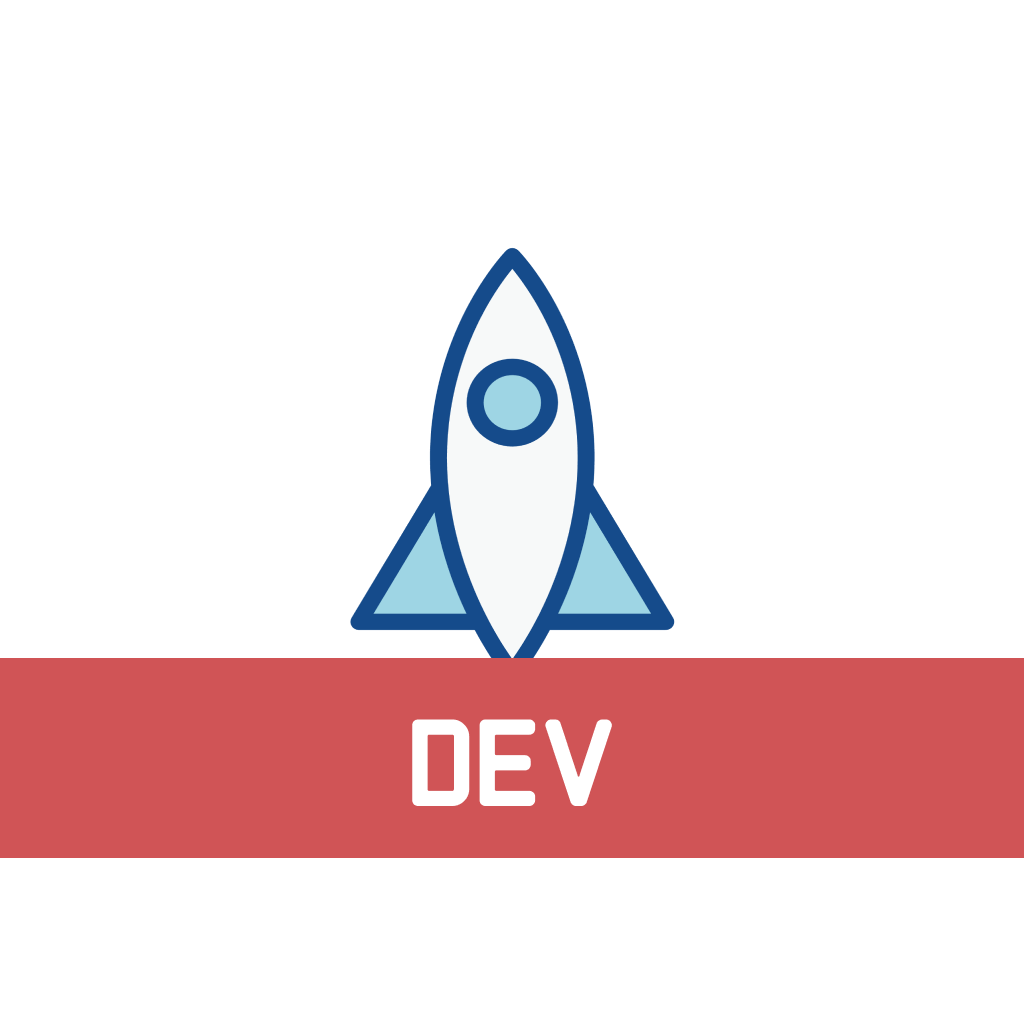
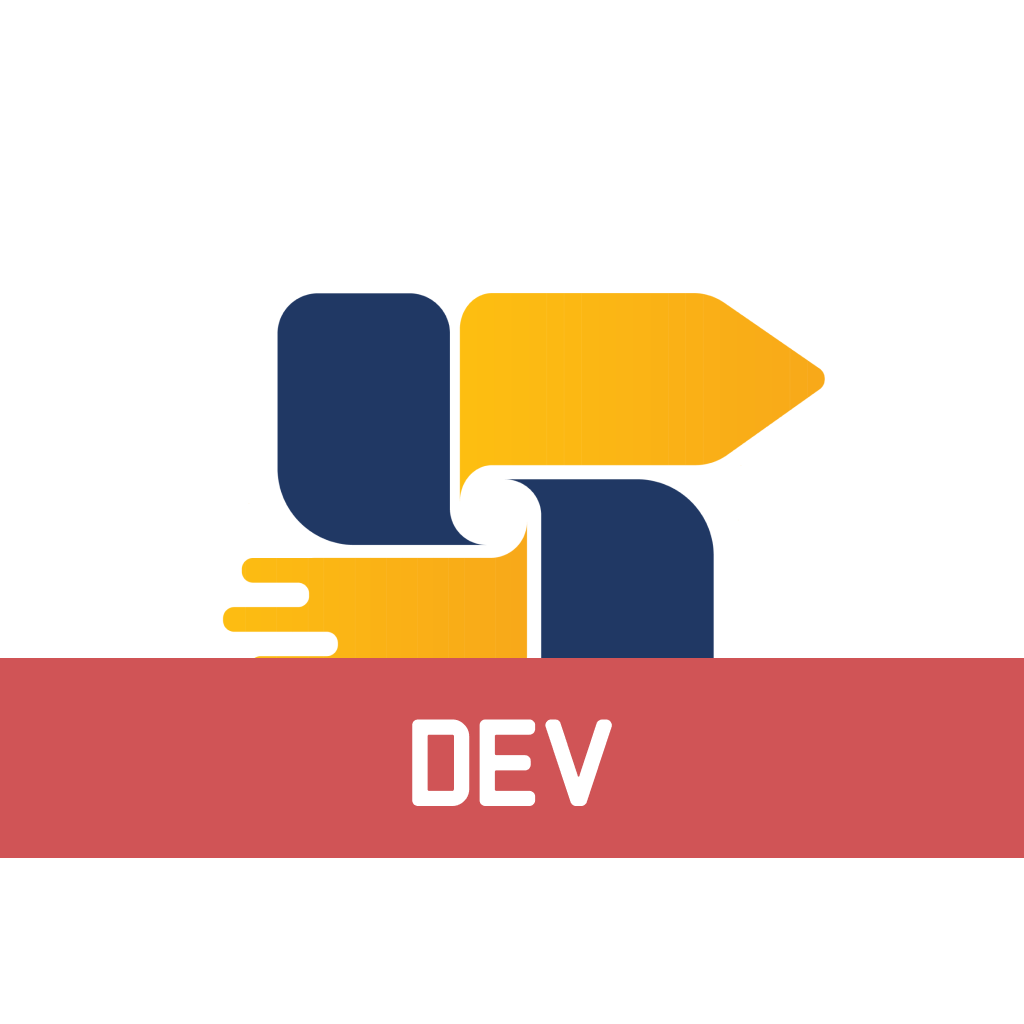
feat(config): update app configuration and assets for Bebaskirim branding
- Changed app name, slug, and owner to 'Bebaskirim' in app.config.ts.
- Updated bundle identifier and associated domains for iOS and Android.
- Modified permissions to an empty array for Android.
- Replaced icon assets and adjusted background colors for improved UI consistency.
- Refactored login screen to use a new logo image and updated layout styling.
- Updated package.json and bun.lock to reflect new app name 'bebaskirim-app'.
- Fixed localization string formatting in en.json for better readability.

Changed region(s): [[0.2188, 0.25, 0.8125, 0.6562]]

diff --git a/app.config.ts b/app.config.ts
@@ -4,15 +4,17 @@ export default ({ config: defaultConfig }: ConfigContext): ExpoConfig => {
   const VARIANT = process.env.APP_VARIANT;
   const VERSION = '0.1.0';
   const BUILD_NUMBER = 1;
+  const BUNDLE_ID = 'com.bebaschat.app';
+
   const config: ExpoConfig = {
     ...defaultConfig,
-    name: 'App',
-    slug: 'app-mobile',
-    owner: 'app-mobile',
+    name: 'Bebaschat',
+    slug: 'bebaschat',
+    owner: 'bebaschat',
     version: VERSION,
     orientation: 'portrait',
     icon: './src/assets/images/icon.png',
-    scheme: 'app',
+    scheme: 'bebaschat',
     userInterfaceStyle: 'automatic',
     newArchEnabled: true,
     experiments: {
@@ -27,11 +29,11 @@ export default ({ config: defaultConfig }: ConfigContext): ExpoConfig => {
     runtimeVersion: { policy: 'appVersion' },
     ios: {
       ...defaultConfig.ios,
-      bundleIdentifier: 'com.lobataros.app',
+      bundleIdentifier: BUNDLE_ID,
       supportsTablet: true,
       buildNumber: BUILD_NUMBER.toString(),
       // Add associatedDomains for Universal Links
-      associatedDomains: ['applinks:app.lobataros.com'],
+      associatedDomains: ['applinks:dashboard.bebaschat.com'],
       icon: './src/assets/images/icon-ios.icon',
       infoPlist: {
         ITSAppUsesNonExemptEncryption: false,
@@ -41,7 +43,7 @@ export default ({ config: defaultConfig }: ConfigContext): ExpoConfig => {
     },
     android: {
       ...defaultConfig.android,
-      package: 'com.lobataros.app',
+      package: BUNDLE_ID,
       versionCode: BUILD_NUMBER,
       edgeToEdgeEnabled: true,
       adaptiveIcon: {
@@ -49,12 +51,7 @@ export default ({ config: defaultConfig }: ConfigContext): ExpoConfig => {
         monochromeImage: './src/assets/images/icon-android-monochrome.png',
         backgroundColor: '#ffffff',
       },
-      permissions: [
-        'android.permission.CAMERA',
-        'android.permission.RECORD_AUDIO',
-        'android.permission.ACCESS_COARSE_LOCATION',
-        'android.permission.ACCESS_FINE_LOCATION',
-      ],
+      permissions: [],
       // Add intentFilters for App Links
       intentFilters: [
         {
@@ -63,7 +60,7 @@ export default ({ config: defaultConfig }: ConfigContext): ExpoConfig => {
           data: [
             {
               scheme: 'https',
-              host: 'dashboard.bebaskirim.com',
+              host: 'dashboard.bebaschat.com',
               pathPrefix: '/auth/reset-password',
             },
           ],
@@ -91,10 +88,10 @@ export default ({ config: defaultConfig }: ConfigContext): ExpoConfig => {
           image: './src/assets/images/icon.png',
           imageWidth: 200,
           resizeMode: 'contain',
-          backgroundColor: '#FAF9F5',
+          backgroundColor: '#F2F2F2',
           dark: {
             image: './src/assets/images/icon.png',
-            backgroundColor: '#262624',
+            backgroundColor: '#121212',
           },
         },
       ],
@@ -127,16 +124,17 @@ export default ({ config: defaultConfig }: ConfigContext): ExpoConfig => {
   };
 
   if (VARIANT === 'dev') {
-    config.name = 'App Dev';
-    config.ios!.bundleIdentifier = 'com.lobataros.app.dev';
+    config.name = 'Bebaschat Dev';
+    config.ios!.bundleIdentifier = `${BUNDLE_ID}.dev`;
+    config.android!.package = `${BUNDLE_ID}.dev`;
+
     config.ios!.icon = './src/assets/images/icon-ios-dev.icon';
-    config.android!.package = 'com.lobataros.app';
     config.android!.adaptiveIcon!.foregroundImage =
       './src/assets/images/icon-android-dev.png';
   } else if (VARIANT === 'preview') {
-    config.name = 'App Preview';
-    config.ios!.bundleIdentifier = 'com.lobataros.app.preview';
-    config.android!.package = 'com.lobataros.app.preview';
+    config.name = 'Bebaschat Preview';
+    config.ios!.bundleIdentifier = `${BUNDLE_ID}.preview`;
+    config.android!.package = `${BUNDLE_ID}.preview`;
   }
 
   return config;

diff --git a/src/screens/login/index.tsx b/src/screens/login/index.tsx
@@ -4,15 +4,16 @@ import { Keyboard, TextInput, View } from 'react-native';
 import { zodResolver } from '@hookform/resolvers/zod';
 import { useMutation } from '@tanstack/react-query';
 import axios from 'axios';
+import { Image as ExpoImage } from 'expo-image';
 import { useRouter } from 'expo-router';
 import { Controller, useForm } from 'react-hook-form';
 import { useTranslation } from 'react-i18next';
 import { useSafeAreaInsets } from 'react-native-safe-area-context';
-import { useCSSVariable } from 'uniwind';
+import { useCSSVariable, withUniwind } from 'uniwind';
 import { z } from 'zod';
 
 import { ErrorResponse } from '@/@types/api';
-import { BottomSheet, Container, Icon, InputField, Text } from '@/components';
+import { BottomSheet, Container, InputField, Text } from '@/components';
 import { BottomSheetModal } from '@/components/bottom-sheet';
 import { Button } from '@/components/button';
 import { snackbar } from '@/components/snackbar';
@@ -20,6 +21,8 @@ import { AUTH_ENDPOINTS } from '@/constants/endpoints';
 import { AuthService } from '@/services';
 import { useAuthStore } from '@/store';
 import { handleMutationError } from '@/utils/error-handler';
+
+const Image = withUniwind(ExpoImage);
 
 // eslint-disable-next-line @typescript-eslint/explicit-function-return-type
 const getLoginSchema = (t: (key: string) => string) =>
@@ -148,7 +151,7 @@ function LoginScreen(): JSX.Element {
   }, [status]);
 
   return (
-    <Container className="flex-1 pt-0">
+    <Container className="bg-surface flex-1 pt-0">
       <Container.Scroll
         className="p-lg flex-1"
         contentContainerClassName="justify-end"
@@ -156,9 +159,11 @@ function LoginScreen(): JSX.Element {
       >
         <View className="p-lg gap-lg w-full">
           <View className="gap-md items-start">
-            <View className="p-md bg-accent-soft rounded-md">
-              <Icon name="user" size={36} className="text-accent" />
-            </View>
+            <Image
+              source={require('@/assets/images/icon.png')}
+              className="size-30"
+              contentFit="contain"
+            />
             <Text variant="headingL">{t('login.title')}</Text>
           </View>
 

diff --git a/src/app/_layout.tsx b/src/app/_layout.tsx
@@ -164,11 +164,7 @@ function App(): React.ReactNode {
                     opacity: splashFinished ? 1 : 0,
                   }}
                 >
-                  <Stack
-                    initialRouteName={
-                      status === 'loggedIn' ? '(tabs)' : '(auth)'
-                    }
-                  >
+                  <Stack>
                     <Stack.Protected
                       guard={status === 'loggedOut' && !hasCompletedOnboarding}
                     >

diff --git a/src/theme/global.css b/src/theme/global.css
@@ -28,7 +28,7 @@
       --color-foreground-inverted: #f2f2f2;
       --color-surface: #ffffff;
 
-      --color-accent: #1a1a1a;
+      --color-accent: #203864;
       --color-accent-soft: color-mix(
         in oklab,
         var(--color-accent) 15%,
